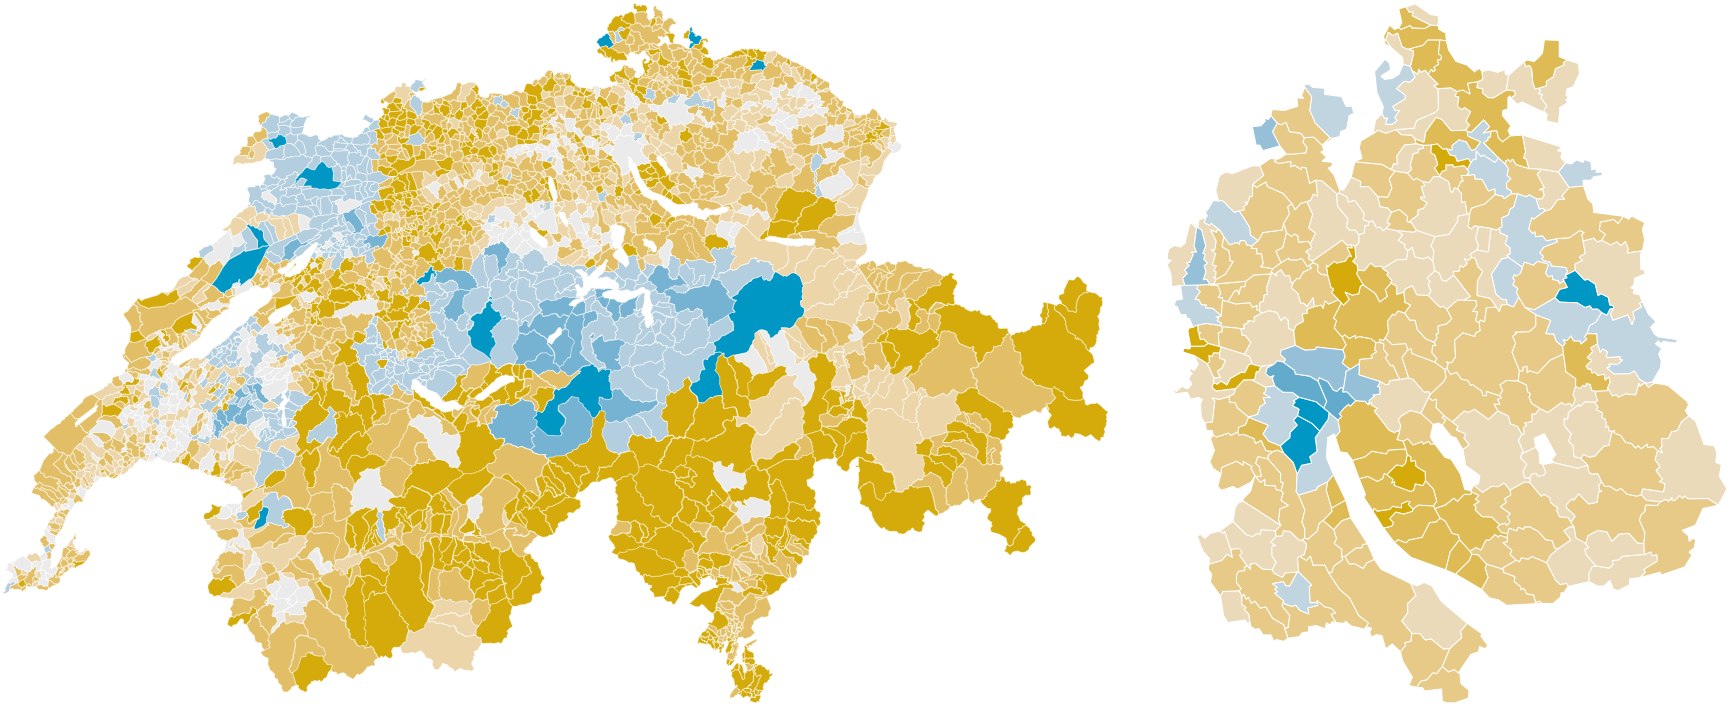
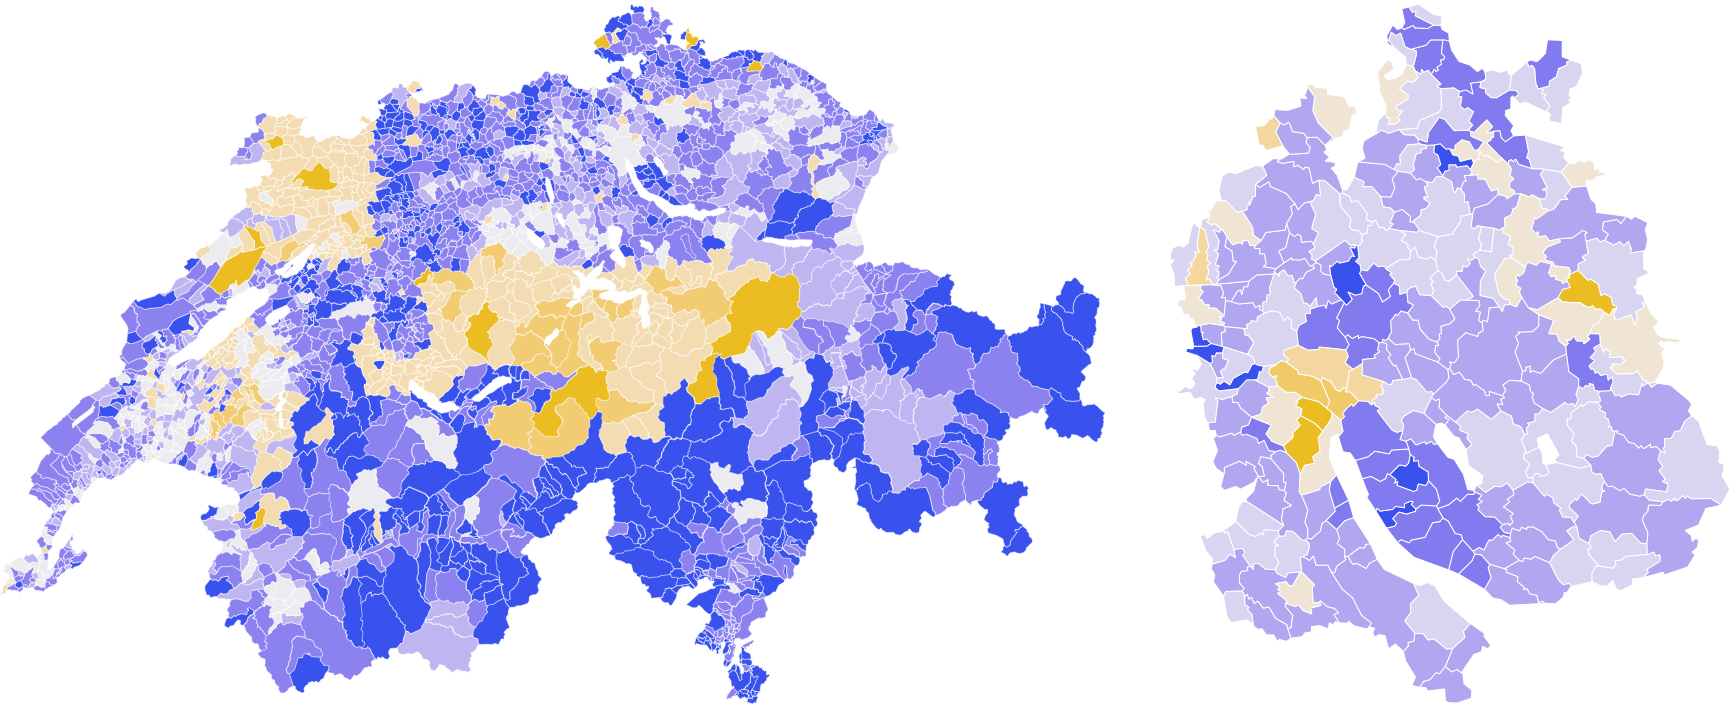
Update diverging map images

diff --git a/pages/style/colors.md b/pages/style/colors.md
@@ -208,5 +208,5 @@ colors:
 ```image
 plain: true
 span: 5
-src: "assets/election-map-diverging-b@1x.png 1x, assets/election-map-diverging-b@2x.png 2x"
+src: "assets/election-map-diverging-c@1x.png 1x, assets/election-map-diverging-c@2x.png 2x"
 ```
